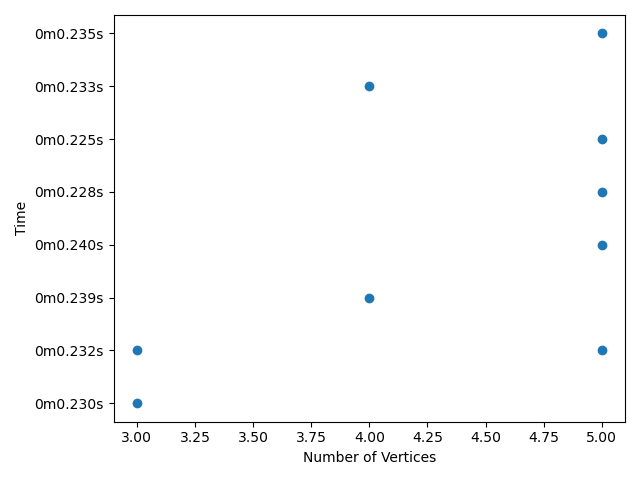
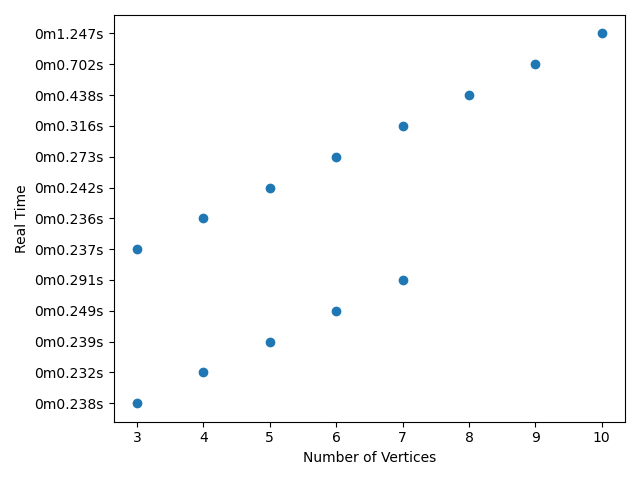
naive instance graphing complete

diff --git a/naive-instances/plot.py b/naive-instances/plot.py
@@ -4,21 +4,22 @@ import sys
 import re
 
 # For naive encoding
-
+ct = 1
 x, y = [], []
 with open(sys.argv[1], "r") as file:
     for line in file:
         if re.search("SAT", line):
-            print(line, end="")
+            print(str(ct) + ". " + line, end="")
+            ct += 1
         elif re.search("real", line):
             y.append(re.search(".m.*s$", line).group(0))
         elif re.search("# Vertex", line):
-            num = int(re.search("# Vertex:.", line).group(0)[9:])
+            num = int(re.search("# Vertex:[0-9]*", line).group(0)[9:])
             x.append(num)
         else:
             print("Error")
 plt.scatter(x, y)
 plt.xlabel("Number of Vertices")
-plt.ylabel("Time")
+plt.ylabel("Real Time")
 plt.tight_layout()
 plt.savefig("naive-instances/naive_vertex.png")
